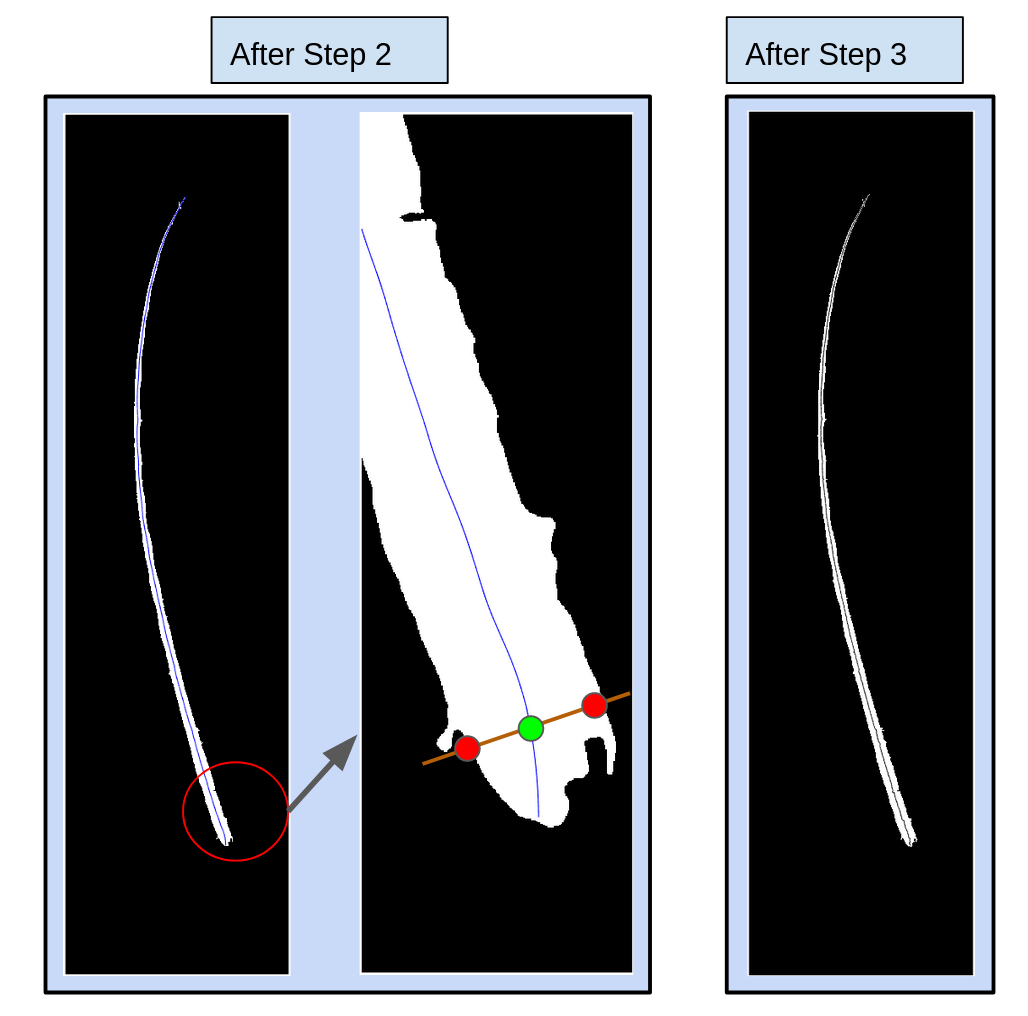
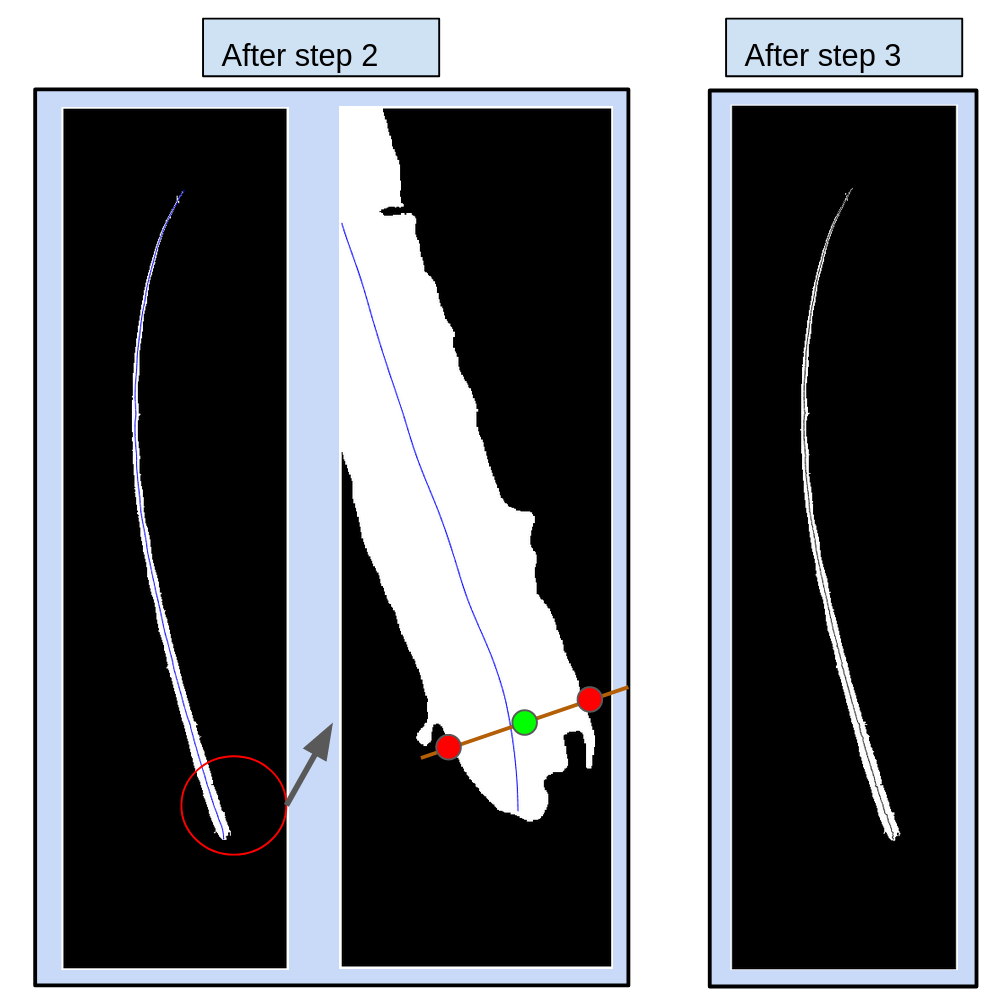
center_line_step3

diff --git a/_posts_h/2020-09-12-Geometric_Parameter_Extraction.md b/_posts_h/2020-09-12-Geometric_Parameter_Extraction.md
@@ -101,4 +101,9 @@ Next step is building initial center line from final mask, as shown on figure 5.
 *<center>Figure 5: Initial Steps of building Centerline </center>*
 
 
-#### Step3 - improve the centerline 
+#### Step3: improve the centerline 
+
+<p align="middle"> <img src="https://github.com/luxi-huang/portfolio/blob/master/img/posts/Whisker/center_line_step3.png?raw=true" alt="drawing" height="600"/> 
+
+*<center>Figure 5: Initial Steps of building Centerline </center>*
+
